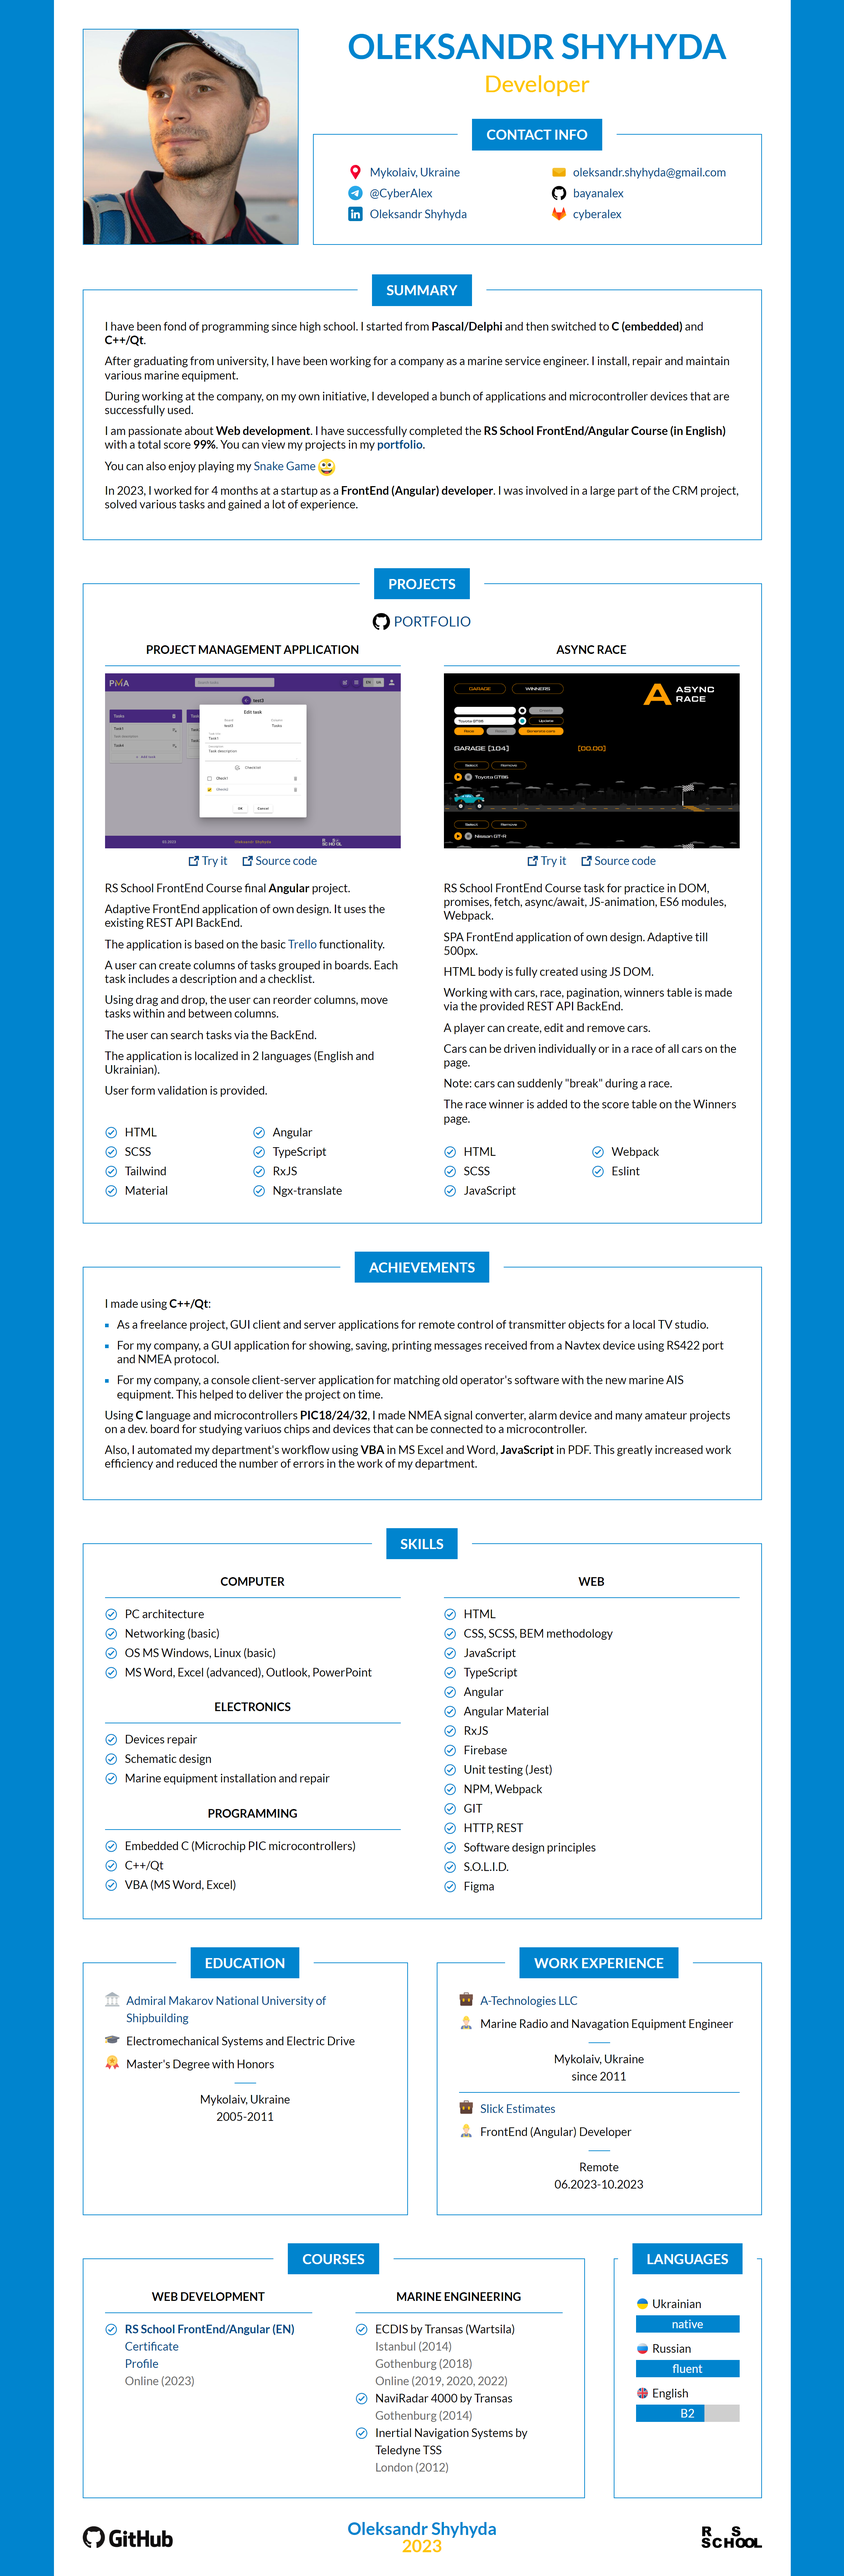
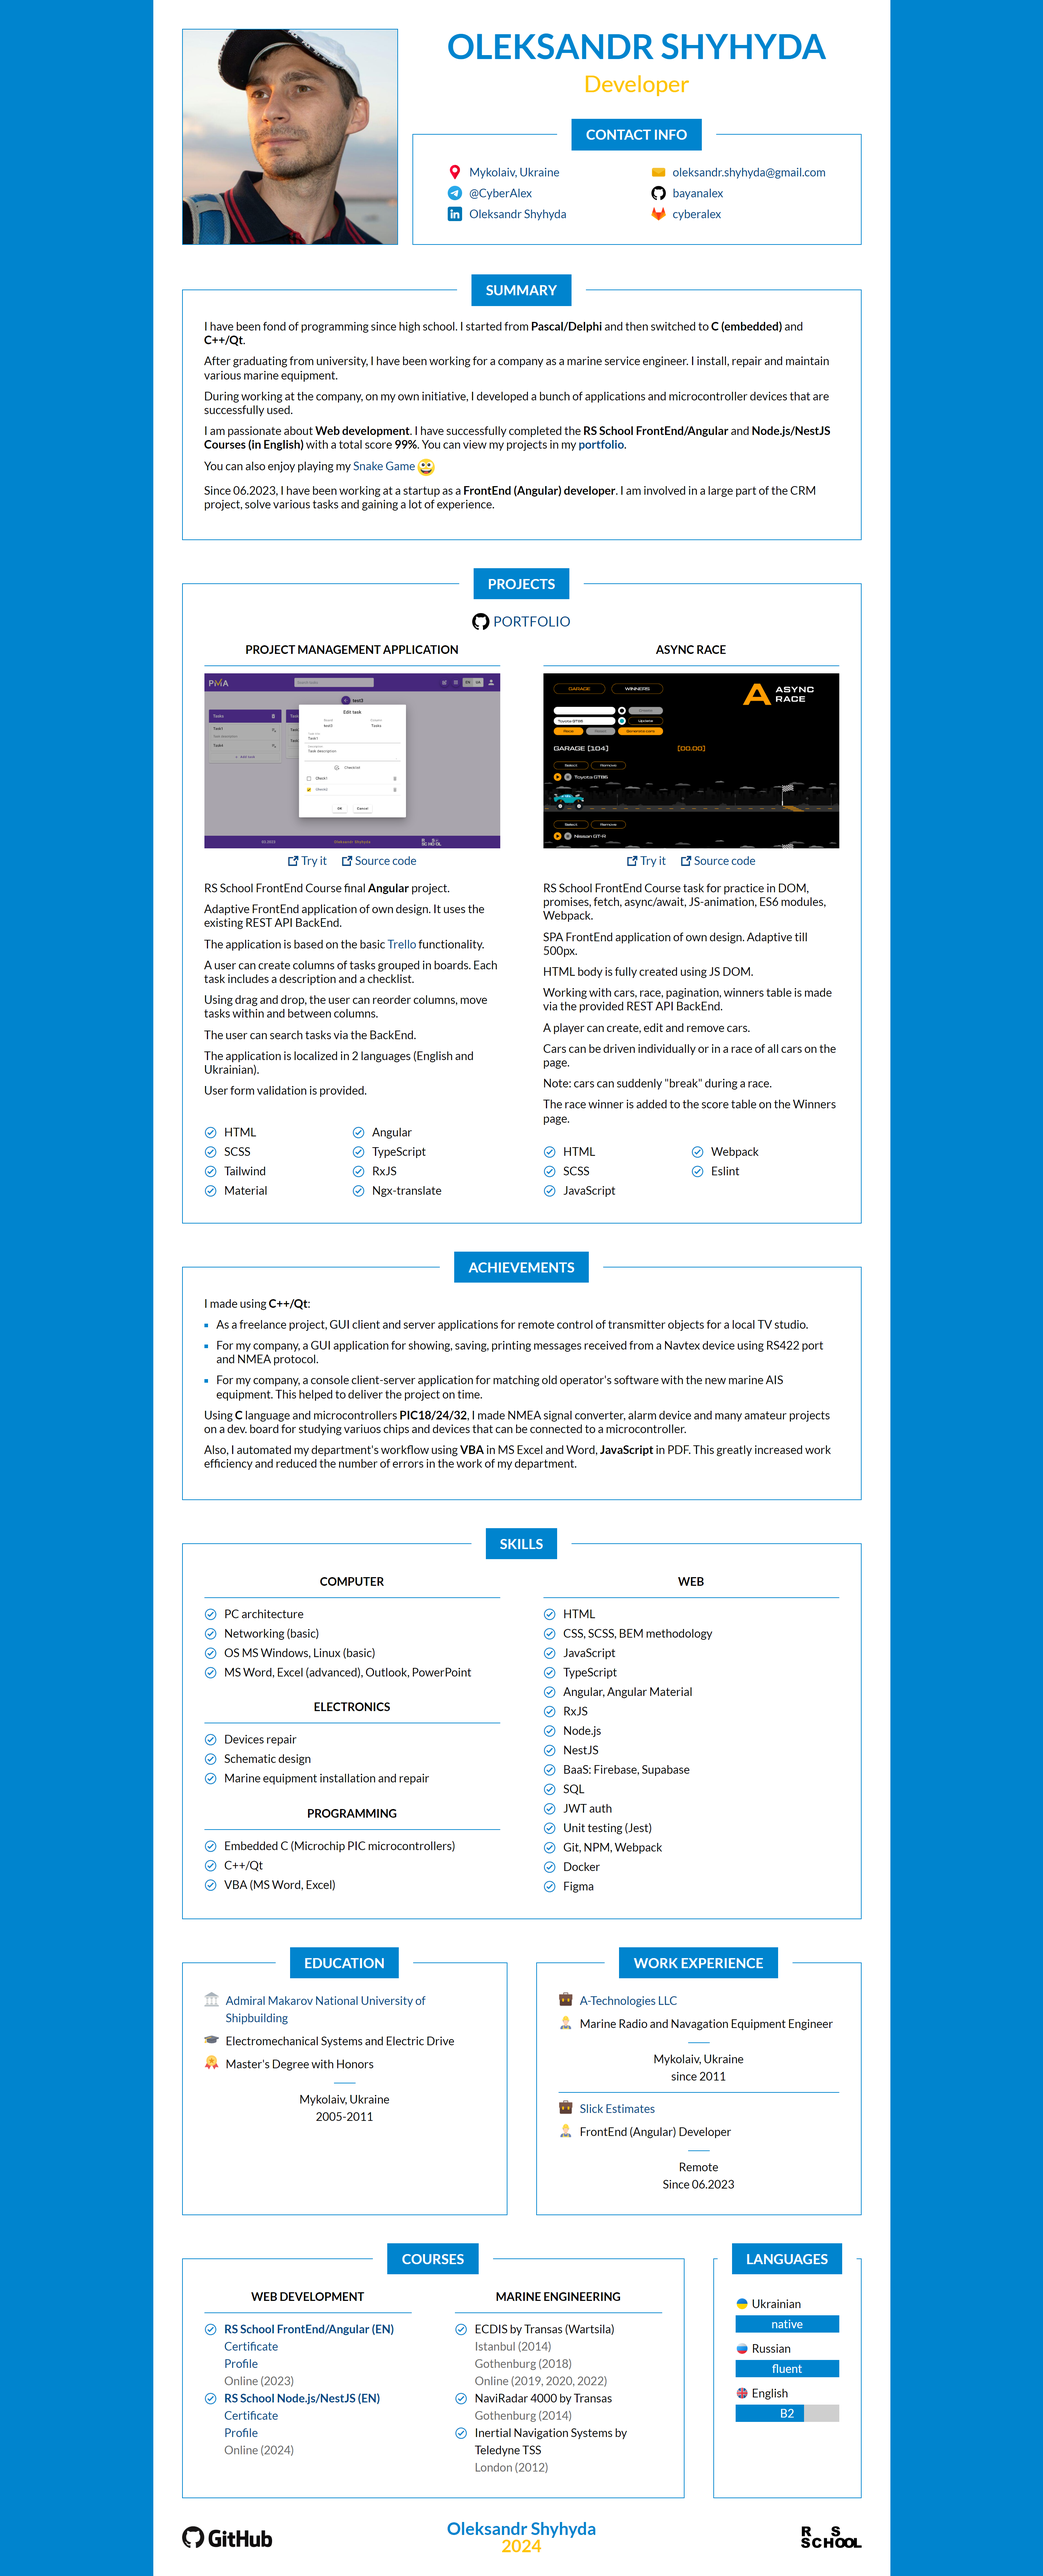
feat: added rs school node.js course feat: added rs school courses stats screenshots

diff --git a/README.md b/README.md
@@ -1,12 +1,14 @@
 # Portfolio (Oleksandr Shyhyda)
 Contact: oleksandr.shyhyda@gmail.com
-## RS School FrontEnd/Angular Course (EN)
-[➡ Course description](https://rs.school/js-en/)  
+## RS School FrontEnd/Angular Course 2023 (EN)
+[➡ Course description](https://rs.school/courses/javascript-mentoring-program)  
 [➡ My profile](https://app.rs.school/cv/be5c7c13-6e84-479d-b995-cedd3a593c22)  
+
 <details>
 <summary>Certificate</summary>
 
-[![Certificate](/img/cert.png)](https://app.rs.school/certificate/5bm7utrx)
+[![Certificate](/img/cert_fe.png)](https://app.rs.school/certificate/5bm7utrx)  
+![Stats FE](/img/stats_fe.png)  
 </details>
 
 ### Projects
@@ -106,7 +108,7 @@ Contact: oleksandr.shyhyda@gmail.com
 [👉 Source code](https://github.com/BayanAlex/rs-pma-angular)  
 [👉 Try it](https://cyberalex-pma.netlify.app/)  
 ##### Description:
-- RS School FrontEnd Course final Angular project
+- Course final project on Angular
 - Adaptive FrontEnd application of own design. It is using existing REST API BackEnd
 - The application is based on a basic [Trello](https://trello.com/) functionality
 - User can create columns of tasks grouped in boards. Each task includes a description and a checklist
@@ -134,6 +136,7 @@ Contact: oleksandr.shyhyda@gmail.com
 - Functions chaining
 
 `JavaScript`
+
 </details>
 
 <details>
@@ -145,6 +148,7 @@ Contact: oleksandr.shyhyda@gmail.com
 - 98 various coding tasks
 
 `JavaScript`
+
 </details>
 
 <details>
@@ -158,6 +162,145 @@ Contact: oleksandr.shyhyda@gmail.com
 - Tests coverage 100%
 
 `JavaScript` `Jest`
+</details>
+
+## RS School BackEnd/Node.js/NestJS Course 2024 (EN)
+[➡ Course description](https://rs.school/courses/nodejs)  
+[➡ My profile](https://app.rs.school/cv/be5c7c13-6e84-479d-b995-cedd3a593c22)  
+
+<details>
+<summary>Certificate</summary>
+
+[![Certificate](/img/cert_be.png)](https://app.rs.school/certificate/cahpblg2)  
+![Stats BE](/img/stats_be.png)  
+</details>
+
+### Tasks
+<details>
+<summary>Node.js basics</summary>
+
+[👉 Task](https://github.com/AlreadyBored/nodejs-assignments/blob/main/assignments/nodejs-basics/assignment.md)  
+[👉 Source code](https://github.com/BayanAlex/node-nodejs-basics)  
+##### Description:
+- File system
+- Command line interface
+- Modules
+- Streams
+- Hash
+- Zlib
+- Worker threads
+- Child processes
+
+`Node.js`
+
+</details>
+
+<details>
+<summary>Basic Testing (Jest)</summary>
+
+[👉 Task](https://github.com/AlreadyBored/basic-testing)  
+[👉 Source code](https://github.com/BayanAlex/rs-basic-testing)  
+##### Description:
+- Simple tests
+- Table tests
+- Error handling & async
+- Testing class
+- Partial mocking
+- Mocking Node.js API
+- Mocking library API
+- Snapshot testing
+
+`Node.js` `Jest` `TypeScript`
+
+</details>
+
+### Projects
+<details>
+<summary>File Manager</summary>
+
+[👉 Task](https://github.com/AlreadyBored/nodejs-assignments/blob/main/assignments/file-manager/assignment.md)  
+[👉 Source code](https://github.com/BayanAlex/rs-file-manager)  
+##### Description:
+Console file manager with basic operations:  
+- File system navigation
+- File operations: create, view, copy, move, delete, rename
+- Hash calculation
+- Archiving
+- OS info
+
+`Node.js`
+
+</details>
+
+<details>
+<summary>Simple CRUD API</summary>
+
+[👉 Task](https://github.com/AlreadyBored/nodejs-assignments/blob/main/assignments/crud-api/assignment.md)  
+[👉 Source code](https://github.com/BayanAlex/rs-crud-api)  
+##### Description:
+- REST CRUD operations using in-memory DB
+- Horizontal scaling with a load balancer based on Cluster API for processing requests using Round-robin algorithm
+- API tests
+
+`Node.js` `TypeScript` `Webpack` `Jest`
+
+</details>
+
+<details>
+<summary>GraphQL service</summary>
+
+[👉 Task](https://github.com/AlreadyBored/nodejs-assignments/blob/main/assignments/graphql-service/assignment.md)  
+[👉 Source code](https://github.com/BayanAlex/rs-nodejs-task-graphql)  
+##### Description:
+- App migration from REST to GraphQL
+- Resolvers
+- Data loaders
+- Depth limit
+- Caching
+
+`Node.js` `GraphQL` `TypeScript`
+
+</details>
+
+<details>
+<summary>Websocket battleship server</summary>
+
+[👉 Task](https://github.com/AlreadyBored/nodejs-assignments/blob/main/assignments/battleship/assignment.md)  
+[👉 Source code](https://github.com/BayanAlex/rs-websockets-ui)  
+##### Description:
+- Realtime battleship game WebSocket server
+- Rooms for playing 1x1
+- Playing with a bot
+- Winners table
+
+`Node.js` `TypeScript` `Webpack` `WebSocket`
+
+</details>
+
+<details>
+<summary>REST Service</summary>
+
+[👉 Task. Part 1](https://github.com/AlreadyBored/nodejs-assignments/blob/main/assignments/rest-service/assignment.md)  
+[👉 Task. Part 2](https://github.com/AlreadyBored/nodejs-assignments/blob/main/assignments/containerization-database-orm/assignment.md)  
+[👉 Task. Part 3](https://github.com/AlreadyBored/nodejs-assignments/blob/main/assignments/logging-error-authentication-authorization/assignment.md)  
+[👉 Source code](https://github.com/BayanAlex/nodejs2024Q1-service)  
+##### Description:
+- Course final project on NestJS
+- Service for storing users, music albums, tracks, artists and favorites
+- Requests validation, errors handling
+- REST CRUD server using PostgreSQL via Prisma ORM
+- App server and database running in Docker containers
+- Containers running using Docker Compose
+- Saving database data, logs and app logs files in Docker volumes
+- Requests, responses and errors logging to console and files rotated with size
+- Setting of logging levels
+- Settings in .env
+- JWT auth with access and refresh tokens
+- Passwords hashing using Bcrypt
+- Route guards
+
+`Node.js` `NestJS` `TypeScript` `Webpack` `Docker` `JWT auth` `Prisma ORM`
+
 </details>
 
 ## My projects
